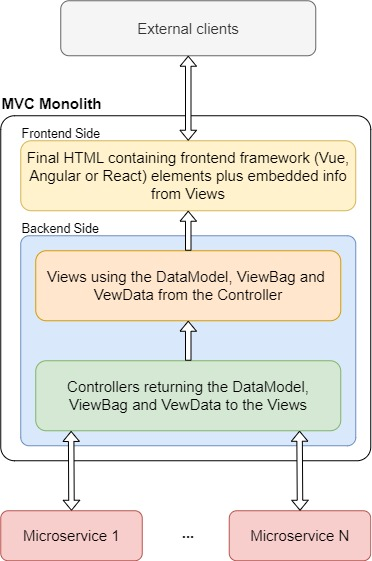
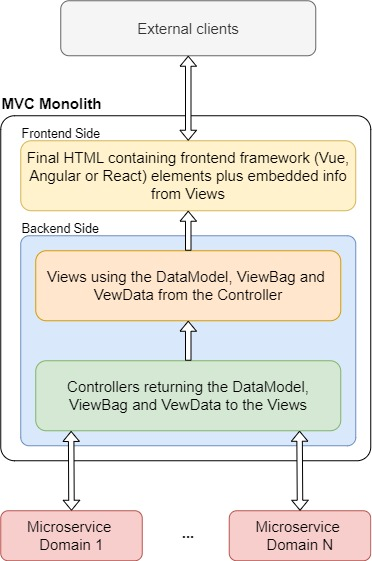
images

Changed region(s): [[0.6505, 0.9091, 0.9462, 1.0], [0.0591, 0.9091, 0.3253, 1.0]]

diff --git a/README.md b/README.md
@@ -33,6 +33,9 @@ In both cases the backend could be using specific *MVC* data and operations such
 > **Global Cons**\
 > this is
 
+## Desired result after the architecture migration
+![SPA result](images/ADR-Result.jpg "SPA result")
+
 ### We can divide the migration solutions in two iterations:
 
 1. Backend:
